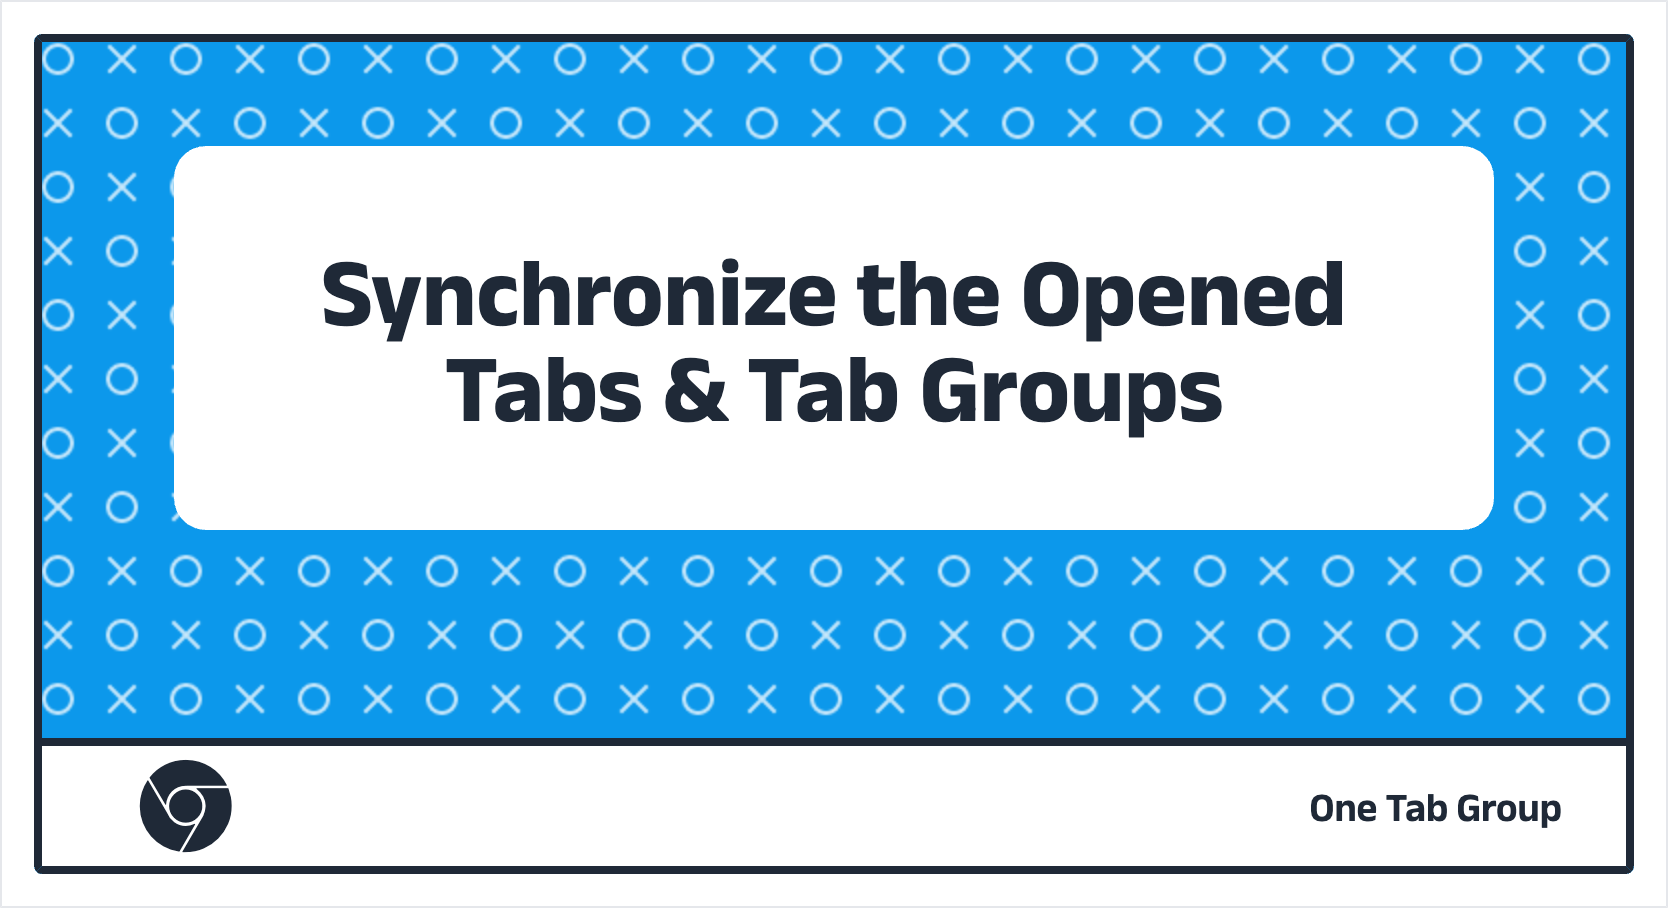
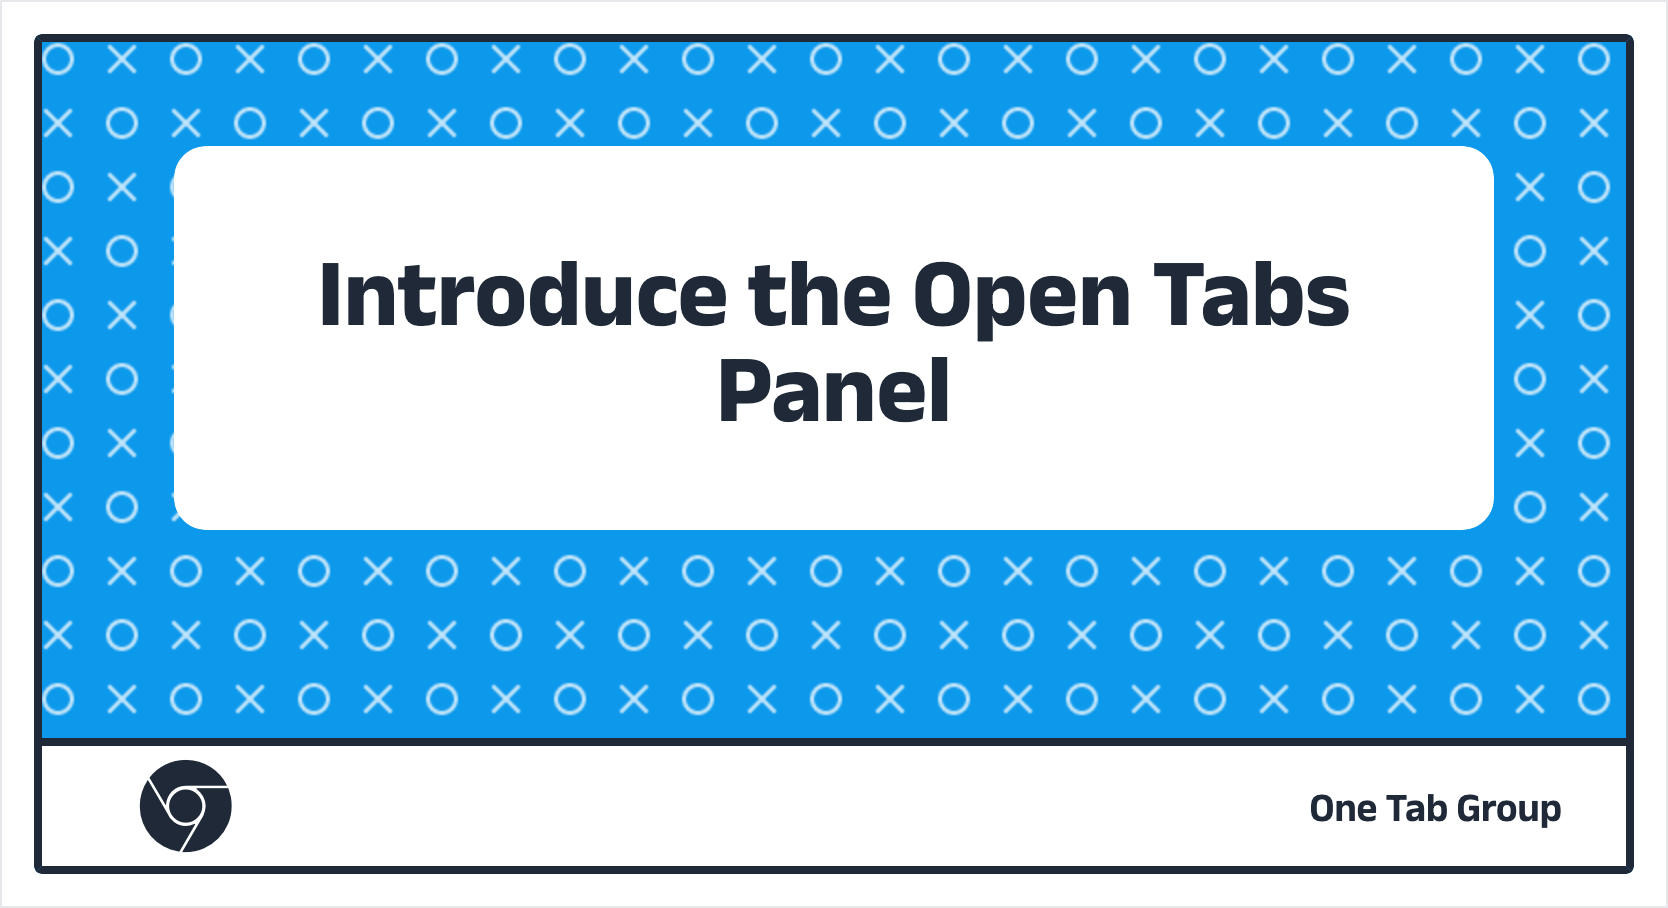
docs: add new docs

Changed region(s): [[0.1871, 0.2775, 0.8106, 0.4934]]

diff --git a/components/SiteFooter.vue b/components/SiteFooter.vue
@@ -60,6 +60,13 @@
             >
               <span>Add to Microsoft Edge</span>
             </a>
+            <a
+              class="flex hover:opacity-75 text-neon"
+              :href="chromeUrl"
+              target="_blank"
+            >
+              <span>Add to Brave</span>
+            </a>
             <a class="hover:opacity-75" href="/blog/how-to-migrate-from-onetab">
               Migration from OneTab
             </a>
@@ -94,9 +101,9 @@
           <nav class="flex flex-col mt-4 space-y-2 text-md text-shark-400">
             <a
               class="hover:opacity-75"
-              href="/blog/synchronize-the-opened-tabs-and-tab-groups"
+              href="/blog/introduce-the-open-tabs-panel"
             >
-              Synchronize the Open Tabs/Tab Groups
+              Introduce the Open Tabs Panel
             </a>
             <a
               class="hover:opacity-75"
@@ -106,7 +113,7 @@
             </a>
             <a
               class="hover:opacity-75"
-              href="/blog/how-to-restore-your-browser-tabs-and-tabgroups"
+              href="/blog/how-to-restore-your-browser-tabs-and-tab-groups"
             >
               How to Restore tabs & tab groups
             </a>
@@ -118,15 +125,22 @@
             </a>
             <a
               class="hover:opacity-75"
-              href="/blog/sharing-your-tabs-or-tabgroups-with-others"
+              href="/blog/sharing-your-tabs-or-tab-groups-with-others"
             >
-              Sharing your tabs/tab groups with others
+              Sharing tabs & tab groups with others
             </a>
-            <a class="hover:opacity-75" href="/blog/sync-session-to-notion">
-              Sync your tabs/tab groups to Notion
+            <a
+              class="hover:opacity-75"
+              href="/blog/sync-your-browser-tabs-to-notion"
+            >
+              Sync your browser tabs to <span class="text-neon">Notion</span>
             </a>
-            <a class="hover:opacity-75" href="">
-              Searching tabs using Command Palette
+            <a
+              class="hover:opacity-75"
+              href="/blog/search-saved-browser-tabs-and-tab-groups-in-raycast"
+            >
+              Search tabs & tab groups using
+              <span class="text-neon">Raycast</span>
             </a>
           </nav>
         </div>

diff --git a/pages/index.vue b/pages/index.vue
@@ -303,14 +303,14 @@
       <!-- 1. Sync with your open tabs &amp; tab groups-->
       <OneTabDesc left-desc>
         <template #title>
-          Synchronize your browser tabs &amp;
-          <span class="text-lochmara-500">tab groups</span>
+          Your Open Tabs &
+          <span class="text-lochmara-500">Tab Groups</span>
+          in sync with your browser
         </template>
         <template #description>
-          Are you struggling to find the tab you're looking for after opening
-          huge amount of tabs? We have synced the tabs and tab groups you are
-          browsing in chrome, so you can easily manage your open tabs and tab
-          groups.
+          Struggling to find a site among a mass of open tabs in your browser?
+          Don't worry, We Provide you Open Tabs Panel offers an easy way to
+          manage multiple tabs at once, in sync with your browser.
         </template>
         <template #media>
           <img
@@ -326,8 +326,8 @@
       <!-- 2. Save/Restore/Reorganise tabs, even tab groups -->
       <OneTabDesc>
         <template #title>
-          Save/Restore/Reorganise tabs
-          <p>Even <span class="text-lochmara-500">tab groups</span></p>
+          Save/Restore Tabs &
+          <span class="text-lochmara-500">Tab Groups</span>
         </template>
         <template #description>
           One-click to aggregate all tabs &amp; tab groups into one session. You

diff --git a/content/blog/9.search-saved-browser-tabs-and-tab-groups-in-raycast.md b/content/blog/9.search-saved-browser-tabs-and-tab-groups-in-raycast.md
@@ -1,0 +1,85 @@
+---
+navigation.title: 'Search saved browser tabs and tab groups in Raycast'
+title: One Tab Group | Search saved browser tabs in Raycast
+description: Unlock the Power of One Tab Group by integrating with Raycast, so you can search sessions、tab groups、tabs from anywhere on your Mac
+category: tutorials
+head.image: /img/blog9_cover.png
+head.description: Unlock the Power of One Tab Group by integrating with Raycast, so you can search sessions、tab groups、tabs from anywhere on your Mac
+---
+
+## Overview
+
+As you accumulate more and more sessions with each workday, you may find yourself with a lot of useful sessions saved. You can think of the sessions you save as a `tab database`. So how do you efficiently retrieve them?
+
+We built a `Raycast` extension for One Tab Group, which you might not have imagined could work together, but it does and it fits perfectly. It helps you search saved sessions and supports drilling down into tab groups. It supports searcing all the tabs you have saved without having to open the browser.
+
+## What is Raycast
+
+[Raycast](https://www.raycast.com/) is a blazingly fast, totally extendable launcher. It lets you complete tasks, calculate, share common links, and much more.
+
+## How it works
+
+Once you have installed the `One Tab Group` extension from the [Raycast Store](https://www.raycast.com/store), you can start using it to search your saved browser tabs and tab groups.
+
+Using `Raycast`, you can search for tabs and tab groups by typing in keywords. `Raycast` will show you a list of related sessions, tab groups, and tabs. For tab groups, you can drill down into it to look for the tab you want. When you find the tab you're looking for, simply click on it to open it in your browser.
+
+The `One Tab Group` extension saves you time by making it easier to search and access your saved tabs and tab groups. Thanks to its integration with `Raycast`, it is easy to use and provides an enjoyable search experience.
+
+## Install One Tab Group on Raycast
+
+Assuming you have already installed [Raycast](https://www.raycast.com/), you can install the integation from the Raycast Store and log in to access the One Tab Group saved sessions by the `License Key`.
+
+### Install within Raycast
+
+- Search `Store` on Raycast
+- Search `One Tab Group` in the Raycast Extension Store
+- Install `One Tab Goup` and enter your `License Key`
+- Happy searching
+
+![](/img/blog9_1.gif)
+
+### Install via web page
+
+[Click here to Install](https://www.raycast.com/xiaoluoboding/one-tab-group)
+
+![](/img/blog9_2.jpg)
+
+## How to search browser tabs and tab groups?
+
+### What’s the relationship between `session`、`group`、`tab`?
+
+Since you saved your tabs into the session, your can search them on `Raycast`, The Data Structure:
+
+![](/img/blog9_3.jpg)
+
+As you can see:
+
+- `Session` contains multiple `Tab Groups` and multiple `Tabs`
+- `Tab Group` contains `Tabs`
+
+### Switch between the Session List and Favorite List
+
+You can switch between the Session List and Favorite List by using the shortcut `CMD` + `P` to open the dropdown menu. The default is `sessions`, and you can filter with `favorites`.
+
+![](/img/blog9_4.jpg)
+
+### Search Tabs & Tab Groups in Session
+
+You can search `tabs` and `tab groups` in the saved session
+
+- When it is a tab, you can `Open in Browser`
+- When it is a tag group, you can `drill down` into the group to continue searching.
+
+![](/img/blog9_2.gif)
+
+### Search Tabs in Tab Groups
+
+The `Tab Group` contains the `tabs` you saved. So you can search tabs in it.
+
+![](/img/blog9_6.jpg)
+
+## Conclusion
+
+`One Tab Group` integrates with `Raycast` in the form of an extension, leveraging Raycast's beautiful UI design and smooth search interaction to enhance the overall search experience for tabs. This allows you to quickly and effectively find the tabs you have saved.
+
+> Please note that saving your tabs to the cloud in One Tab Group is a paid feature. Click here to [Get a License](/pricing) and enjoy searcing your tab "database".

diff --git a/content/blog/3.introduce-the-open-tabs-panel.md b/content/blog/3.introduce-the-open-tabs-panel.md
@@ -1,0 +1,35 @@
+---
+navigation.title: 'Introduce the Open Tabs Panel'
+title: One Tab Group | Introduce the Open Tab Panel
+description: Struggling to find a site among a mass of open tabs in your browser? Don't worry, we show you all the open tabs with a tree-style view, in sync with your browser, in One Tab Group.
+category: tutorials
+head.image: /img/blog3_cover.png
+---
+
+Struggling to find a site among a mass of open tabs in your browser? Don't worry, `One Tab Group`’s Open Tabs Panel offers an easy way to manage multiple tabs at once and in sync with your browser. Opening to the side of the extension home page, the Open Tabs Panel will give you a `tree-style` view of all the open Tabs and open Tab Groups.
+
+![](/img/blog3_0.gif)
+
+## 1. Sync and Search
+
+You will find all the open tabs and tab groups in the `sidebar at the left`. Once you change a tab or a group's order in the browser's list, it will also change in the sidebar at the left.
+
+Never mind being too long on the list, we offer you a search button to help you find a certain site. It's just on the top-left corner as the following picture shows， you can also evoke the search engine by pressing `Command` + `K`.
+
+![](/img/blog3_1.jpg)
+
+## 2. Remove Duplicates
+
+If you can't remember whether you have open several same sites or not, don't worry, you could use the duplicates removing action, by clicking the first button in the drop-down menu on the top-right. It will remove all the duplicated sites and keep only one for you.
+
+![](/img/blog3_2.jpg)
+
+## 3. Suspend Opened Tabs
+
+This is really one of the most practical features of `One Tab Group`. In order to make your browser run faster, we provided you an option to suspend all the open tabs. They will go asleep till you click them to wake them.
+
+Do you see the task manager window on the left? It shows the memories that your browser is consuming. If only you used the suspending function, all the memories of the tabs will be released. You may never see the annoying phrase "Oops there was an error! Please try again later".
+
+![](/img/blog3_3.jpg)
+
+All these features aim to help you find and manage your open tabs faster and easier, go ahead and try it!
